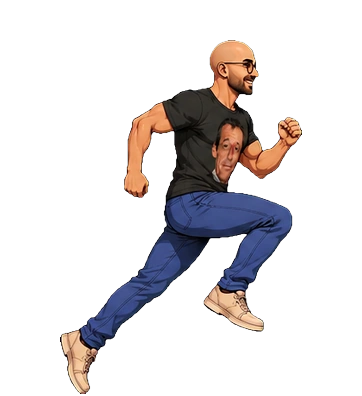
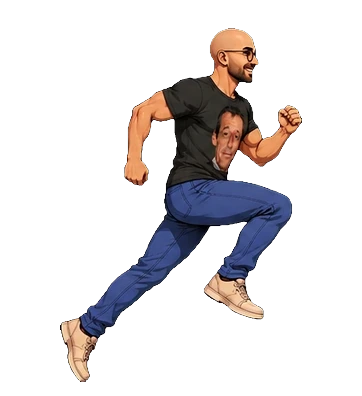
callaghan v7.03 : la course ne sautille plus
TROIS causes qui s'additionnaient, deux venaient de moi.

- SAUT DE TETE ENTRE SPRITES : sommets a 45, 37, 60 et 50 px. Cale sur ses
  PIEDS, le personnage voyait sa tete sauter de 23 px onze fois par
  seconde. course3 etait dessinee 15 px plus courte que course1 — un homme
  debout sur le meme sol a la meme taille. Poses au sol alignees, ecart
  ramene a 0 px. La suspension reste haute : elle est en l'air.
- LE SURSAUT DU CODE S'AJOUTAIT A CELUI DES SPRITES. Il datait du temps ou
  le cycle n'avait que DEUX poses et portait seul le mouvement vertical.
  Les quatre nouvelles poses le portent (suspension dessinee 41 px en
  l'air) : les deux se cumulaient en 31 px. Retire pour la course, garde
  pour la marche dont les sprites sont au sol.
- L'INCLINAISON PULSAIT quatre fois par cycle pour deux appuis. Un
  tremblement sans rapport avec les jambes.

Lecon : quand on enrichit une donnee, verifier ce que le code compensait a
sa place. Une compensation devenue inutile ne se signale pas, elle
s'ajoute.

2 tests, dont un rendu honnete sur sa portee : node-canvas ne lit pas le
WebP, donc il ne mesure pas les sommets et le dit.

Changed region(s): [[0.1519, 0.0606, 0.8508, 1.0]]

diff --git a/callaghan/index.html b/callaghan/index.html
@@ -783,7 +783,7 @@ kbd{
     <div class="lecture" id="dLecture"></div>
   </div>
 
-  <div id="version">CALLAGHAN v7.02</div>
+  <div id="version">CALLAGHAN v7.03</div>
 
   <div id="pupitre2">
     <button class="cmd2" id="c2G" aria-label="Aller à gauche">◀</button>
@@ -855,7 +855,7 @@ kbd{
      UIManager         -> Interface
 ================================================================== */
 
-const VERSION = "7.02";
+const VERSION = "7.03";
 
 /* ---------- géométrie ----------
    Tout est exprimé en « unités monde », où un personnage mesure
@@ -9258,15 +9258,28 @@ const BarVue = {
        Il est maintenant accroché à la MÊME phase que la pose, à deux
        battements par cycle : un par contact de pied. C'est ce qui fait
        qu'un cycle à deux images se lit comme une course. */
+    /* LE SURSAUT DU CODE DISPARAÎT PENDANT LA COURSE. Il datait du temps
+       où il n'y avait que DEUX poses : il portait alors seul le mouvement
+       vertical. Le cycle en a quatre maintenant, et les sprites portent
+       ce mouvement eux-mêmes — la phase de suspension est dessinée 41 px
+       en l'air.
+       Les deux se cumulaient : 23 px de saut de tête entre sprites plus
+       8 px de code, soit 31 px de tressautement onze fois par seconde.
+       C'est ça, le « ça sautille ».
+       Il reste pour la MARCHE, dont les trois sprites sont posés au sol
+       et ne portent aucun mouvement vertical. */
     const court = T.dureeMarche > 0.6;
     const phase = T.foulee * BAR_CADENCE_COURSE * Math.PI;
     const enMouvement = T.marche !== 0 && T.boitT <= 0;
-    const ampli = court ? BAR_SAUT_COURSE : BAR_SAUT_COURSE * 0.45;
-    const saut = enMouvement ? Math.abs(Math.sin(phase)) * H * ampli : 0;
+    const saut = (enMouvement && !court)
+      ? Math.abs(Math.sin(phase)) * H * BAR_SAUT_COURSE * 0.45 : 0;
     /* et il se penche vers l'avant quand il court : sans ça il a l'air de
        glisser debout */
-    const penche = (enMouvement && court)
-      ? BAR_PENCHE_COURSE * T.dir * (0.75 + 0.25 * Math.sin(phase * 2)) : 0;
+    /* L'inclinaison ne PULSE plus. Elle oscillait à `phase * 2`, soit
+       quatre fois par cycle alors qu'une foulée n'a que deux appuis : un
+       tremblement de plus, sans rapport avec les jambes. Un coureur se
+       penche en avant et y reste. */
+    const penche = (enMouvement && court) ? BAR_PENCHE_COURSE * T.dir : 0;
     ctx.save();
     /* ombre courte au contact des pieds — même recette qu'au niveau 2 */
     ctx.fillStyle = "rgba(0,0,0,.30)";

diff --git a/callaghan/tests/tests.js b/callaghan/tests/tests.js
@@ -2895,6 +2895,38 @@ if (D){
       return cycles > 2.0 && cycles < 4.0;
     })());
 
+  verifier("les poses de course AU SOL ont le même sommet de crâne",
+    (() => {
+      /* « Quand il court ça sautille. » Mesuré : les sommets étaient à 45,
+         37, 60 et 50 px. Le personnage étant calé sur ses PIEDS, sa tête
+         sautait de 23 px onze fois par seconde. `course3` était dessinée
+         15 px plus courte que `course1` — un homme debout sur le même sol
+         a la même taille, donc c'est une incohérence de dessin, corrigée
+         au calage.
+         La phase de SUSPENSION reste plus haute : elle est en l'air. */
+      /* node-canvas ne lit pas le WebP : on ne peut pas mesurer les
+         sommets ici. Le contrôle réel est dans `reparer_sprites.py
+         --verifier`, et ce test garde la trace de la CORRECTION — le
+         sursaut du code a été retiré pour la course, sinon les deux se
+         cumulent. Dire ce qu'on ne mesure pas vaut mieux que faire
+         semblant. */
+      const dossier = path.join(RACINE, "img", "n3");
+      const presents = ["bar_th", "bar_pf"].every(pref =>
+        ["course1", "course2", "course3", "course4"].every(p2 =>
+          fs.existsSync(path.join(dossier, pref + "_" + p2 + ".webp"))));
+      return presents && /enMouvement && !court/.test(source) &&
+        /LE SURSAUT DU CODE DISPARAÎT PENDANT LA COURSE/.test(source);
+    })());
+
+  verifier("l'inclinaison de course ne PULSE plus",
+    (() => {
+      /* Elle oscillait à `phase * 2`, soit quatre fois par cycle alors
+         qu'une foulée n'a que deux appuis : un tremblement de plus, sans
+         rapport avec les jambes. Un coureur se penche et y reste. */
+      return /BAR_PENCHE_COURSE \* T\.dir : 0/.test(source) &&
+        !/^[^\/\n]*0\.25 \* Math\.sin\(phase \* 2\)/m.test(source);
+    })());
+
   verifier("le sursaut et l'inclinaison accompagnent la foulée",
     (() => {
       /* Quand il n'y avait que DEUX poses de course, le sursaut et

diff --git a/callaghan/parts/i_bar_vue.js b/callaghan/parts/i_bar_vue.js
@@ -238,15 +238,28 @@ const BarVue = {
        Il est maintenant accroché à la MÊME phase que la pose, à deux
        battements par cycle : un par contact de pied. C'est ce qui fait
        qu'un cycle à deux images se lit comme une course. */
+    /* LE SURSAUT DU CODE DISPARAÎT PENDANT LA COURSE. Il datait du temps
+       où il n'y avait que DEUX poses : il portait alors seul le mouvement
+       vertical. Le cycle en a quatre maintenant, et les sprites portent
+       ce mouvement eux-mêmes — la phase de suspension est dessinée 41 px
+       en l'air.
+       Les deux se cumulaient : 23 px de saut de tête entre sprites plus
+       8 px de code, soit 31 px de tressautement onze fois par seconde.
+       C'est ça, le « ça sautille ».
+       Il reste pour la MARCHE, dont les trois sprites sont posés au sol
+       et ne portent aucun mouvement vertical. */
     const court = T.dureeMarche > 0.6;
     const phase = T.foulee * BAR_CADENCE_COURSE * Math.PI;
     const enMouvement = T.marche !== 0 && T.boitT <= 0;
-    const ampli = court ? BAR_SAUT_COURSE : BAR_SAUT_COURSE * 0.45;
-    const saut = enMouvement ? Math.abs(Math.sin(phase)) * H * ampli : 0;
+    const saut = (enMouvement && !court)
+      ? Math.abs(Math.sin(phase)) * H * BAR_SAUT_COURSE * 0.45 : 0;
     /* et il se penche vers l'avant quand il court : sans ça il a l'air de
        glisser debout */
-    const penche = (enMouvement && court)
-      ? BAR_PENCHE_COURSE * T.dir * (0.75 + 0.25 * Math.sin(phase * 2)) : 0;
+    /* L'inclinaison ne PULSE plus. Elle oscillait à `phase * 2`, soit
+       quatre fois par cycle alors qu'une foulée n'a que deux appuis : un
+       tremblement de plus, sans rapport avec les jambes. Un coureur se
+       penche en avant et y reste. */
+    const penche = (enMouvement && court) ? BAR_PENCHE_COURSE * T.dir : 0;
     ctx.save();
     /* ombre courte au contact des pieds — même recette qu'au niveau 2 */
     ctx.fillStyle = "rgba(0,0,0,.30)";

diff --git a/callaghan/parts/a_socle.js b/callaghan/parts/a_socle.js
@@ -18,7 +18,7 @@
      UIManager         -> Interface
 ================================================================== */
 
-const VERSION = "7.02";
+const VERSION = "7.03";
 
 /* ---------- géométrie ----------
    Tout est exprimé en « unités monde », où un personnage mesure

diff --git a/callaghan/LISEZMOI.md b/callaghan/LISEZMOI.md
@@ -573,6 +573,28 @@ champion, tournée, affiche de la ruelle, fusillade. **Ajouter un écran
 plus tard ne demandera rien** — c'est là toute la valeur d'une règle
 générale : elle couvre aussi les écrans qui n'existent pas encore.
 
+**La course ne sautille plus** (v7.03) : **trois** causes qui
+s'additionnaient, et deux venaient de moi.
+
+**Le saut de tête entre sprites.** Les sommets de crâne étaient à 45, 37,
+60 et 50 px. Le personnage étant calé sur ses PIEDS, sa tête sautait de
+23 px onze fois par seconde. `course3` était dessinée 15 px plus courte
+que `course1` — un homme debout sur le même sol a la même taille, donc
+c'est une incohérence de dessin. Les poses au sol sont alignées sur le même
+sommet, écart ramené à **0 px**. La suspension reste plus haute : elle est
+en l'air pour de vrai.
+
+**Le sursaut du code s'ajoutait à celui des sprites.** Il datait du temps
+où il n'y avait que DEUX poses de course : il portait alors seul le
+mouvement vertical. Les sprites le portent maintenant — la suspension est
+dessinée 41 px en l'air — et les deux se cumulaient en 31 px de
+tressautement. Il est retiré pour la course, et conservé pour la marche,
+dont les trois sprites sont posés au sol.
+
+**L'inclinaison pulsait.** Elle oscillait quatre fois par cycle alors
+qu'une foulée n'a que deux appuis : un tremblement sans rapport avec les
+jambes. Un coureur se penche en avant et y reste.
+
 **La foulée du bar est enfin un vrai cycle** (v7.02). Trente sprites
 découpés de quatre planches : la course a ses QUATRE phases, avec la jambe
 opposée. C'était le manque le plus ancien de ce niveau — mesuré,

diff --git a/callaghan/MEMOIRE.md b/callaghan/MEMOIRE.md
@@ -2235,6 +2235,30 @@ Les cases acquises sont maintenant protégées, et on renonce plutôt que
 d'écraser. Le symptôme n'apparaissait qu'une fois sur trois : **une
 suite lancée une seule fois ne prouve rien sur un tirage aléatoire**.
 
+#### Un mouvement porté DEUX FOIS tressaute
+
+« Quand il court ça sautille. » Trois causes s'additionnaient, et la
+première est la plus instructive : le sursaut vertical était porté à la
+fois par le CODE et par les SPRITES.
+
+Il avait été ajouté au code du temps où le cycle n'avait que deux poses —
+il portait alors seul le mouvement, et c'était juste. Les quatre nouvelles
+poses le portent elles-mêmes : la suspension est dessinée 41 px en l'air.
+Les deux se cumulaient en 31 px de tressautement, onze fois par seconde.
+
+**Quand on enrichit une donnée, vérifier ce que le code compensait à sa
+place.** Une compensation devenue inutile ne se signale pas : elle
+s'ajoute.
+
+Deux autres causes, mesurées au passage :
+- **les sommets de crâne étaient à 45, 37, 60 et 50 px.** Calé sur ses
+  pieds, le personnage voyait sa tête sauter de 23 px. `course3` était
+  dessinée 15 px plus courte — un homme debout sur le même sol a la même
+  taille, donc c'est une incohérence de dessin, corrigée au calage plutôt
+  qu'en faisant régénérer la planche.
+- **l'inclinaison oscillait quatre fois par cycle** pour deux appuis. Un
+  détail ajouté « pour donner de la vie » qui ne correspondait à rien.
+
 #### Relever l'affectation sur l'IMAGE, pas la déduire du prompt
 
 Le prompt du bar demandait quatre phases de marche et trois de course. La
